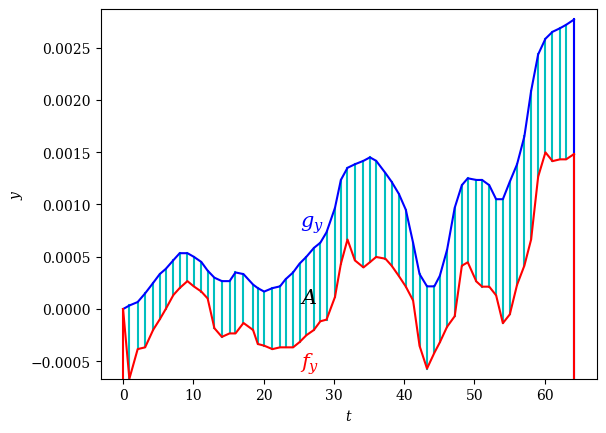
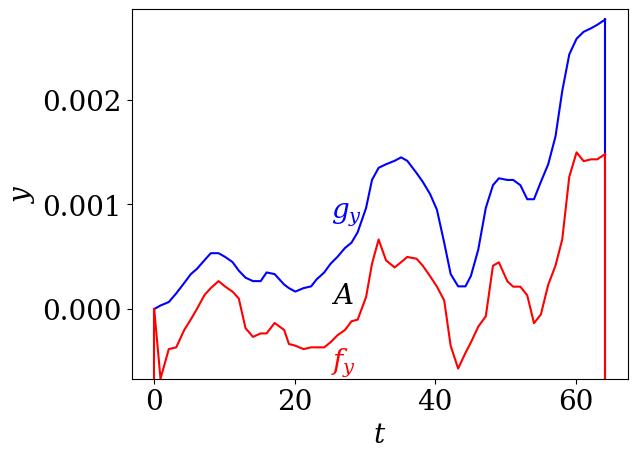
Plot font size

diff --git a/plots_present_actual_traj.py b/plots_present_actual_traj.py
@@ -2,6 +2,53 @@ from utilities import *
   
 all_subdirs = os.listdir()   
      
+def str_convert(val):
+    if val == False:
+        return "0"
+    if val == True:
+        return "1"
+    new_val = val
+    power_to = 0
+    while abs(new_val) < 1 and new_val != 0.0:
+        new_val *= 10
+        power_to += 1 
+    rounded = str(np.round(new_val, 2))
+    if rounded[-2:] == '.0':
+        rounded = rounded[:-2]
+    if power_to != 0:  
+        rounded += " \\times 10^{-" + str(power_to) + "}"
+    return rounded
+
+def print_row(header_val, no_gap_val, int_val):
+    middle_sec = translate_var[header_val.replace("predicted_", "").replace("_", " ").replace("alternative", "alt").replace("x speed alt", "x speed").replace("y speed alt", "y speed").replace("speed no abs alt", "speed no abs").capitalize()]
+    if len(middle_sec) > 20:
+        nh = middle_sec[:20]
+    else:
+        nh = "\\multirow{2}{*}{" + middle_sec + "}"
+    nh += " & lanac" 
+    for v in no_gap_val:
+        nh += " & $" + str_convert(v) + "$"
+    nh += " \\\\ \cline{2-" + str(len(no_gap_val) + 2) + "}\n" 
+    if len(middle_sec) > 20:
+        nh += middle_sec[20:] 
+    nh += " & realno"  
+    for v in int_val:
+        nh += " & $" + str_convert(v) + "$"
+    nh += " \\\\ \hline\n" 
+    print(nh)
+    return nh
+
+def print_method(long, lat, newx):
+    middle_sec = "Original"
+    if long != "":
+        middle_sec = translate_method(long + "-" + lat) 
+    nh = middle_sec.replace("x", "$x$").replace("y", "$y$") 
+    for v in newx:
+        nh += " & $" + str_convert(v) + "$"
+    nh += " \\\\ \hline\n"   
+    print(nh)
+    return nh
+
 predicted_time = load_object("predicted/predicted_time")  
 predicted_distance = load_object("predicted/predicted_distance")  
 predicted_longitude = load_object("predicted/predicted_longitude")  
@@ -24,7 +71,7 @@ long_dict = load_object("markov_result/long_dict")
 lat_dict = load_object("markov_result/lat_dict")
 distance_predicted = load_object("markov_result/distance_predicted")
   
-def plot_trapezoid(f, g, x, str_pr, filename): 
+def plot_trapezoid(f, g, x, str_pr, filename):  
     l1 = [i for i in np.arange(min(min(f), min(g)) - 0.0001, min(f[0], g[0]) + 0.00001, 0.00001)]
     x1 = [x[0] for i in np.arange(min(min(f), min(g)) - 0.0001, min(f[0], g[0]) + 0.00001, 0.00001)]
     l2 = [i for i in np.arange(min(min(f), min(g)) - 0.0001, max(f[-1], g[-1]) + 0.00001, 0.00001)]
@@ -44,26 +91,27 @@ def plot_trapezoid(f, g, x, str_pr, filename):
         if abs(x[ixix] - 25) < diff:
             diff = abs(x[ixix] - 25) 
             ix = ixix 
+    plt.rcParams['font.size'] = 20
     plt.rcParams['font.family'] = "serif"
     plt.rcParams["mathtext.fontset"] = "dejavuserif"
-    plt.figure(figsize=(15, 7))
+    plt.figure(figsize=(20, 7))
     plt.subplot(1, 2, 1)
     plt.xlabel("$t$")
     plt.ylabel('$' + str_pr[2] + '$')  
-    for ixix in range(len(x)): 
-        plt.plot([x[ixix], x[ixix]], [f[ixix], g[ixix]], c = "c") 
+    #for ixix in range(len(x)): 
+        #plt.plot([x[ixix], x[ixix]], [f[ixix], g[ixix]], c = "c") 
     plt.plot(x, f, label = "f", c = "r")
     if f[ix] > g[ix]:  
-        plt.text(x[ix], f[ix] + 0.00025, '$f' + str_pr + '$', size=15, color='r')
+        plt.text(x[ix], f[ix] + 0.00031, '$f' + str_pr + '$', size=20, color='r')
     else:    
-        plt.text(x[ix], f[ix] - 0.00015, '$f' + str_pr + '$', size=15, color='r')
+        plt.text(x[ix], f[ix] - 0.00015, '$f' + str_pr + '$', size=20, color='r')
     plt.ylim(min(min(f), min(g)), max(max(f), max(g)) + 0.0001)
     plt.plot(x, g, label = "g", c = "b")
     if g[ix] > f[ix]:  
-        plt.text(x[ix], g[ix] + 0.00025, '$g' + str_pr + '$', size=15, color='b')
+        plt.text(x[ix], g[ix] + 0.00026, '$g' + str_pr + '$', size=20, color='b')
     else:    
-        plt.text(x[ix], g[ix] - 0.0003, '$g' + str_pr + '$', size=15, color='b')
-    plt.text(x[ix], (f[ix] + g[ix]) / 2, '$A$', size=15, color='k')
+        plt.text(x[ix], g[ix] - 0.00036, '$g' + str_pr + '$', size=20, color='b')
+    plt.text(x[ix], (f[ix] + g[ix]) / 2, '$A$', size=20, color='k')
     if f[-1] < g[-1]:
         plt.plot(x1, l1, c = "r")
     else:
@@ -81,17 +129,17 @@ def plot_trapezoid(f, g, x, str_pr, filename):
     plt.subplot(1, 2, 2) 
     plt.xlabel("$t$")
     plt.ylabel('$' + str_pr[2] + '$')  
-    plt.plot(x, df, c = "c") 
+    plt.plot(x, df, c = "magenta") 
     plt.ylim(- 0.0001, max(max(f), max(g)) + 0.0001 - min(min(f), min(g)) + 0.0001) 
-    plt.plot(x4, l4, c = "c")
-    plt.text(x[ix], df[ix] / 2, '$A$', size=15, color='k')
-    plt.text(x[ix], df[ix] + 0.0005, '$|f' + str_pr + '-g' + str_pr + '|$', size=15, color='c')
-    plt.plot(x3, s2, c = "c")
+    plt.plot(x4, l4, c = "magenta")
+    plt.text(x[ix], df[ix] / 2, '$A$', size=20, color='k')
+    plt.text(x[ix], df[ix] + 0.0005, '$|f' + str_pr + '-g' + str_pr + '|$', size=20, color='magenta')
+    plt.plot(x3, s2, c = "magenta")
     plt.savefig("presentation_plots/" + filename + ".png", bbox_inches = "tight")
     plt.close()
     plot_trapezoid_left(f, g, x, str_pr, filename)
     
-def plot_trapezoid_left(f, g, x, str_pr, filename): 
+def plot_trapezoid_left(f, g, x, str_pr, filename):  
     l1 = [i for i in np.arange(min(min(f), min(g)) - 0.0001, min(f[0], g[0]) + 0.00001, 0.00001)]
     x1 = [x[0] for i in np.arange(min(min(f), min(g)) - 0.0001, min(f[0], g[0]) + 0.00001, 0.00001)]
     l2 = [i for i in np.arange(min(min(f), min(g)) - 0.0001, max(f[-1], g[-1]) + 0.00001, 0.00001)]
@@ -111,24 +159,25 @@ def plot_trapezoid_left(f, g, x, str_pr, filename):
         if abs(x[ixix] - 25) < diff:
             diff = abs(x[ixix] - 25) 
             ix = ixix 
+    plt.rcParams['font.size'] = 20
     plt.rcParams['font.family'] = "serif"
     plt.rcParams["mathtext.fontset"] = "dejavuserif"  
     plt.xlabel("$t$")
     plt.ylabel('$' + str_pr[2] + '$')  
-    for ixix in range(len(x)): 
-        plt.plot([x[ixix], x[ixix]], [f[ixix], g[ixix]], c = "c") 
+    #for ixix in range(len(x)): 
+        #plt.plot([x[ixix], x[ixix]], [f[ixix], g[ixix]], c = "c") 
     plt.plot(x, f, label = "f", c = "r")
     if f[ix] > g[ix]:  
-        plt.text(x[ix], f[ix] + 0.00035, '$f' + str_pr + '$', size=15, color='r')
+        plt.text(x[ix], f[ix] + 0.00041, '$f' + str_pr + '$', size=20, color='r')
     else:    
-        plt.text(x[ix], f[ix] - 0.00025, '$f' + str_pr + '$', size=15, color='r')
+        plt.text(x[ix], f[ix] - 0.00025, '$f' + str_pr + '$', size=20, color='r')
     plt.ylim(min(min(f), min(g)), max(max(f), max(g)) + 0.0001)
     plt.plot(x, g, label = "g", c = "b")
     if g[ix] > f[ix]:  
-        plt.text(x[ix], g[ix] + 0.00035, '$g' + str_pr + '$', size=15, color='b')
+        plt.text(x[ix], g[ix] + 0.00044, '$g' + str_pr + '$', size=20, color='b')
     else:    
-        plt.text(x[ix], g[ix] - 0.0004, '$g' + str_pr + '$', size=15, color='b')
-    plt.text(x[ix], (f[ix] + g[ix]) / 2, '$A$', size=15, color='k')
+        plt.text(x[ix], g[ix] - 0.00053, '$g' + str_pr + '$', size=20, color='b')
+    plt.text(x[ix], (f[ix] + g[ix]) / 2, '$A$', size=20, color='k')
     if f[-1] < g[-1]:
         plt.plot(x1, l1, c = "r")
     else:
@@ -146,7 +195,8 @@ def plot_trapezoid_left(f, g, x, str_pr, filename):
     plt.savefig("presentation_plots/" + filename + "_left.png", bbox_inches = "tight")
     plt.close()
     
-def plot_all(fx, fy, gx, gy, maxnum, filename):   
+def plot_all(fx, fy, gx, gy, maxnum, filename):  
+    plt.rcParams['font.size'] = 15 
     for i in range(len(fx[:maxnum])):  
         plt.plot([fx[i], gx[i]], [fy[i], gy[i]], color='k')
         if i == 0:
@@ -192,41 +242,41 @@ def get_all_for_name(lf, len_tr):
 
     time_int = [np.round(times_processed[time_index + 1] - times_processed[time_index], 3) for time_index in range(len(times_processed) - 1)]  
     time_no_gap = fill_gap(predicted_time[lf])
-    print("predicted_time", time_no_gap[:len_tr], time_int[:len_tr])
+    print_row("predicted_time", time_no_gap[:len_tr], time_int[:len_tr])
 
     distance_int = [np.round(np.sqrt((longitudes[distance_index + 1] - longitudes[distance_index]) ** 2 + (latitudes[distance_index + 1] - latitudes[distance_index]) ** 2), 5) for distance_index in range(len(longitudes) - 1)]
     distance_no_gap = fill_gap(predicted_distance[lf])
-    print("predicted_distance", distance_no_gap[:len_tr], distance_int[:len_tr])
+    print_row("predicted_distance", distance_no_gap[:len_tr], distance_int[:len_tr])
 
     longitude_int = [np.round(abs(longitudes[longitude_index + 1] - longitudes[longitude_index]), 10) for longitude_index in range(len(longitudes) - 1)]
     longitudes_no_gap = fill_gap(predicted_longitude[lf])
-    print("predicted_longitude", longitudes_no_gap[:len_tr], longitude_int[:len_tr])
+    print_row("predicted_longitude", longitudes_no_gap[:len_tr], longitude_int[:len_tr])
 
     longitude_no_abs_int = [np.round(longitudes[longitude_index + 1] - longitudes[longitude_index], 10) for longitude_index in range(len(longitudes) - 1)]
     longitudes_no_abs_no_gap = fill_gap(predicted_longitude_no_abs[lf])
-    print("predicted_longitude_no_abs", longitudes_no_abs_no_gap[:len_tr], longitude_no_abs_int[:len_tr])
+    print_row("predicted_longitude_no_abs", longitudes_no_abs_no_gap[:len_tr], longitude_no_abs_int[:len_tr])
     
     longitude_sgn_int = [longitudes[longitude_index + 1] > longitudes[longitude_index] for longitude_index in range(len(longitudes) - 1)] 
     longitudes_sgn_no_gap = fill_gap(predicted_longitude_sgn[lf])
-    print("predicted_longitude_sgn", longitudes_sgn_no_gap[:len_tr], longitude_sgn_int[:len_tr])
+    print_row("predicted_longitude_sgn", longitudes_sgn_no_gap[:len_tr], longitude_sgn_int[:len_tr])
  
     latitude_int = [np.round(abs(latitudes[latitude_index + 1] - latitudes[latitude_index]), 10) for latitude_index in range(len(latitudes) - 1)]
     latitudes_no_gap = fill_gap(predicted_latitude[lf])
-    print("predicted_latitude", latitudes_no_gap[:len_tr], latitude_int[:len_tr])
+    print_row("predicted_latitude", latitudes_no_gap[:len_tr], latitude_int[:len_tr])
 
     latitude_no_abs_int = [np.round(latitudes[latitude_index + 1] - latitudes[latitude_index], 10) for latitude_index in range(len(latitudes) - 1)]
     latitudes_no_abs_no_gap = fill_gap(predicted_latitude_no_abs[lf])
-    print("predicted_latitude_no_abs", latitudes_no_abs_no_gap[:len_tr], latitude_no_abs_int[:len_tr])
+    print_row("predicted_latitude_no_abs", latitudes_no_abs_no_gap[:len_tr], latitude_no_abs_int[:len_tr])
    
     latitude_sgn_int = [latitudes[latitude_index + 1] > latitudes[latitude_index] for latitude_index in range(len(latitudes) - 1)] 
     latitudes_sgn_no_gap = fill_gap(predicted_latitude_sgn[lf])
-    print("predicted_latitude_sgn", latitudes_sgn_no_gap[:len_tr], latitude_sgn_int[:len_tr])
+    print_row("predicted_latitude_sgn", latitudes_sgn_no_gap[:len_tr], latitude_sgn_int[:len_tr])
     
     file_with_ride = pd.read_csv(lf)
     directions = list(file_with_ride["fields_direction"]) 
     direction_int = [np.round(direction, 0) for direction in directions]
     direction_no_gap = fill_gap(predicted_direction[lf])
-    print("predicted_direction", direction_no_gap[:len_tr], direction_int[:len_tr])
+    print_row("predicted_direction", direction_no_gap[:len_tr], direction_int[:len_tr])
      
     xdistance_int = [longitudes[distance_index + 1] - longitudes[distance_index] for distance_index in range(len(longitudes) - 1)]
     ydistance_int = [latitudes[distance_index + 1] - latitudes[distance_index] for distance_index in range(len(latitudes) - 1)]
@@ -252,7 +302,7 @@ def get_all_for_name(lf, len_tr):
                         direction_alternative_int[heading_alternative_index] = direction_alternative_int[heading_alternative_index2]
                         break
     direction_alternative_no_gap = fill_gap(predicted_direction_alternative[lf]) 
-    print("predicted_direction_alternative", direction_alternative_no_gap[:len_tr], direction_alternative_int[:len_tr])
+    print_row("predicted_direction_alternative", direction_alternative_no_gap[:len_tr], direction_alternative_int[:len_tr])
 
     xdistance_int = [abs(longitudes[distance_index + 1] - longitudes[distance_index]) for distance_index in range(len(longitudes) - 1)]
     ydistance_int = [abs(latitudes[distance_index + 1] - latitudes[distance_index]) for distance_index in range(len(latitudes) - 1)]
@@ -276,12 +326,12 @@ def get_all_for_name(lf, len_tr):
                         direction_abs_alternative_int[heading_alternative_index] = direction_abs_alternative_int[heading_alternative_index2]
                         break
     direction_abs_alternative_no_gap = fill_gap(predicted_direction_abs_alternative[lf])
-    print("predicted_direction_abs_alternative", direction_abs_alternative_no_gap[:len_tr], direction_abs_alternative_int[:len_tr])
+    print_row("predicted_direction_abs_alternative", direction_abs_alternative_no_gap[:len_tr], direction_abs_alternative_int[:len_tr])
  
     speeds = list(file_with_ride["fields_speed"]) 
     speed_int = [np.round(speed, 0) for speed in speeds] 
     speed_no_gap = fill_gap(predicted_speed[lf])
-    print("predicted_speed", speed_no_gap[:len_tr], speed_int[:len_tr])
+    print_row("predicted_speed", speed_no_gap[:len_tr], speed_int[:len_tr])
 
     times_delays = [times_processed[time_index + 1] - times_processed[time_index] for time_index in range(len(times_processed) - 1)] 
     for time_index in range(len(times_delays)):
@@ -290,7 +340,7 @@ def get_all_for_name(lf, len_tr):
     distance_int = [np.sqrt((longitudes[distance_index + 1] - longitudes[distance_index]) ** 2 + (latitudes[distance_index + 1] - latitudes[distance_index]) ** 2) for distance_index in range(len(longitudes) - 1)]
     speed_alternative_int = [np.round(distance_int[speed_alternative_index] / times_delays[speed_alternative_index], 5) for speed_alternative_index in range(len(times_delays))]
     speed_alternative_no_gap = fill_gap(predicted_speed_alternative[lf])
-    print("predicted_speed_alternative", speed_alternative_no_gap[:len_tr], speed_alternative_int[:len_tr])
+    print_row("predicted_speed_alternative", speed_alternative_no_gap[:len_tr], speed_alternative_int[:len_tr])
     
     for time_index in range(len(times_delays)):
             if times_delays[time_index] == 0:
@@ -298,7 +348,7 @@ def get_all_for_name(lf, len_tr):
     distance_int = [abs(longitudes[distance_index + 1] - longitudes[distance_index]) for distance_index in range(len(longitudes) - 1)]
     x_speed_alternative_int = [np.round(distance_int[x_speed_alternative_index] / times_delays[x_speed_alternative_index], 5) for x_speed_alternative_index in range(len(times_delays))]
     x_speed_alternative_no_gap = fill_gap(predicted_x_speed_alternative[lf]) 
-    print("predicted_x_speed_alternative", x_speed_alternative_no_gap[:len_tr], x_speed_alternative_int[:len_tr])
+    print_row("predicted_x_speed_alternative", x_speed_alternative_no_gap[:len_tr], x_speed_alternative_int[:len_tr])
     
     for time_index in range(len(times_delays)):
             if times_delays[time_index] == 0:
@@ -306,7 +356,7 @@ def get_all_for_name(lf, len_tr):
     distance_int = [abs(latitudes[distance_index + 1] - latitudes[distance_index]) for distance_index in range(len(latitudes) - 1)]
     y_speed_alternative_int = [np.round(distance_int[y_speed_alternative_index] / times_delays[y_speed_alternative_index], 5) for y_speed_alternative_index in range(len(times_delays))]
     y_speed_alternative_no_gap = fill_gap(predicted_y_speed_alternative[lf])
-    print("predicted_y_speed_alternative", y_speed_alternative_no_gap[:len_tr], y_speed_alternative_int[:len_tr])
+    print_row("predicted_y_speed_alternative", y_speed_alternative_no_gap[:len_tr], y_speed_alternative_int[:len_tr])
 
     for time_index in range(len(times_delays)):
             if times_delays[time_index] == 0:
@@ -314,7 +364,7 @@ def get_all_for_name(lf, len_tr):
     distance_int = [longitudes[distance_index + 1] - longitudes[distance_index] for distance_index in range(len(longitudes) - 1)]
     x_speed_no_abs_alternative_int = [np.round(distance_int[x_speed_no_abs_alternative_index] / times_delays[x_speed_no_abs_alternative_index], 5) for x_speed_no_abs_alternative_index in range(len(times_delays))]
     x_speed_no_abs_alternative_no_gap = fill_gap(predicted_x_speed_no_abs_alternative[lf])
-    print("predicted_x_speed_no_abs_alternative", x_speed_no_abs_alternative_no_gap[:len_tr], x_speed_no_abs_alternative_int[:len_tr])
+    print_row("predicted_x_speed_no_abs_alternative", x_speed_no_abs_alternative_no_gap[:len_tr], x_speed_no_abs_alternative_int[:len_tr])
     
     for time_index in range(len(times_delays)):
             if times_delays[time_index] == 0:
@@ -322,15 +372,24 @@ def get_all_for_name(lf, len_tr):
     distance_int = [latitudes[distance_index + 1] - latitudes[distance_index] for distance_index in range(len(latitudes) - 1)]
     y_speed_no_abs_alternative_int = [np.round(distance_int[y_speed_no_abs_alternative_index] / times_delays[y_speed_no_abs_alternative_index], 5) for y_speed_no_abs_alternative_index in range(len(times_delays))]
     y_speed_no_abs_alternative_no_gap = fill_gap(predicted_y_speed_no_abs_alternative[lf])
-    print("predicted_y_speed_no_abs_alternative", y_speed_no_abs_alternative_no_gap[:len_tr], y_speed_no_abs_alternative_int[:len_tr])
+    print_row("predicted_y_speed_no_abs_alternative", y_speed_no_abs_alternative_no_gap[:len_tr], y_speed_no_abs_alternative_int[:len_tr])
       
+    #print_method("", "", longitudes[:len_tr])
     for long in long_dict[lf]:
+        if "actual" in long:
+            continue
         lat = long.replace("long", "lat").replace("x", "y") 
-        #print(long, lat, long_dict[lf][long][:len_tr], lat_dict[lf][lat][:len_tr])
+        #print_method(long, lat, long_dict[lf][long][:len_tr])
+        
+    print_method("", "", latitudes[:len_tr])
+    for long in long_dict[lf]:
+        if "actual" in long:
+            continue
+        lat = long.replace("long", "lat").replace("x", "y") 
+        print_method(long, lat, lat_dict[lf][lat][:len_tr])
              
 min_len = 100000
-lf = ""
-
+lf = "" 
 for long_filename in long_dict:
     for long in long_dict[long_filename]:
         if len(long_dict[long_filename][long]) < min_len:
